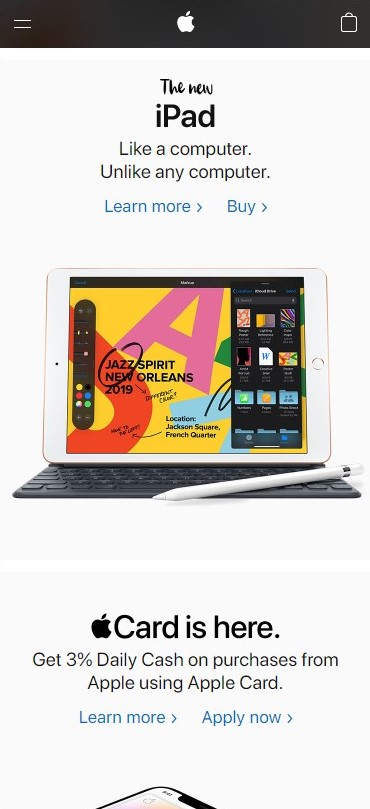
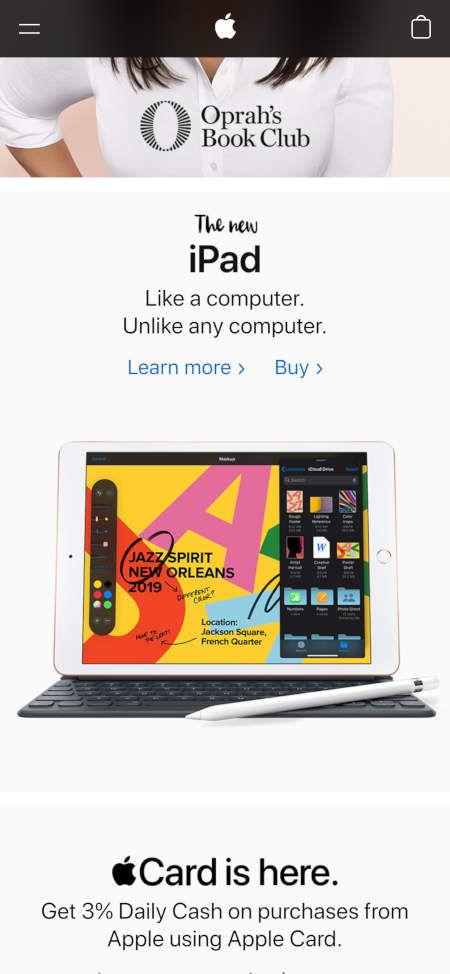
compressed images, added content to design principles, updated css

diff --git a/lesson2/design-principles.html b/lesson2/design-principles.html
@@ -21,19 +21,22 @@
                 <li><a href="/">Home</a></li>
             </ul>
         </nav>
-        <main class="content-grid">
+        <main>
             <section>
-                <h2 class="subheader" id="whitespace">Whitespace and Clean Design</h2>
+                <h2 class="subheader">Whitespace</h2>
+                <p><a href="http://progressivepunctuation.com/">Progressive Punctuation</a></p>
                 <img src="/lesson2/images/progressive-punctuation.jpg" alt="A screenshot of punctuation we ought to be using" class="med-img img-left">
                 <p></p>
             </section>
             <section>
-                <h2 class="subheader" id="contrast">Contrast</h2>
-                <img src="/lesson2/images/baesman.jpg" alt="A screenshot of Baesman consulting's website, blue square with green square with inlaid text" class="med-img img-right">
+                <h2 class="subheader">Contrast</h2>
+                <p><a href="http://www.baesman.com/">Baesman</a></p>
+                <img src="/lesson2/images/baesman.jpg" alt="A screenshot of Baesman's website, blue square with green square with inlaid text" class="med-img img-right">
                 <p></p>
             </section>
             <section>
-                <h2 class="subheader" id="fittslaw">Fitt's Law</h2>
+                <h2 class="subheader">Fitt's Law</h2>
+                <p><a href="https://www.apple.com/">Apple</a></p>
                 <img src="/lesson2/images/apple.jpg" alt="A screenshot of Apple's website showing an iPad" class="med-img img-left">
                 <p></p>
             </section>

diff --git a/lesson2/css/medium.css b/lesson2/css/medium.css
@@ -11,13 +11,13 @@
         min-width: 460px;
     }
     
-/*grid*/
-    .grid {
+/*grid styling*/
+    main {
         grid-template-columns: 1fr 1fr;
     }
 
 /*images*/
     .med-img {
-        width: 360px;
+        width: auto;
     }
 }

diff --git a/lesson2/css/main.css b/lesson2/css/main.css
@@ -77,13 +77,14 @@ nav ul li:before {
 
 }
 
-/*grid*/
-.grid {
+/*grid styling*/
+main {
     display: grid;
     grid-template-columns: 1fr 1fr 1fr;
+    
 }
 
 /*images*/
 .med-img {
-    width: 360px;  
+    max-width: 100%;  
 }

diff --git a/lesson2/css/small.css b/lesson2/css/small.css
@@ -10,10 +10,9 @@
     .profile-pic {
         float: none;
     }
-
-/* grid */
-    .grid {
-        grid-template-columns: 1fr;
+    /*grid layout*/
+    main {
+        
     }
 
 /*images*/
